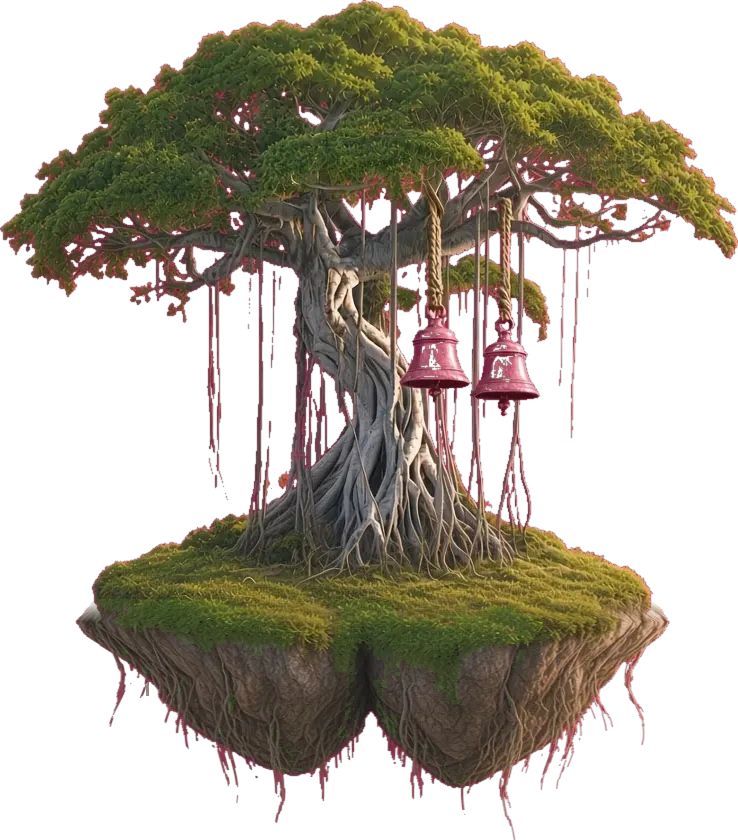
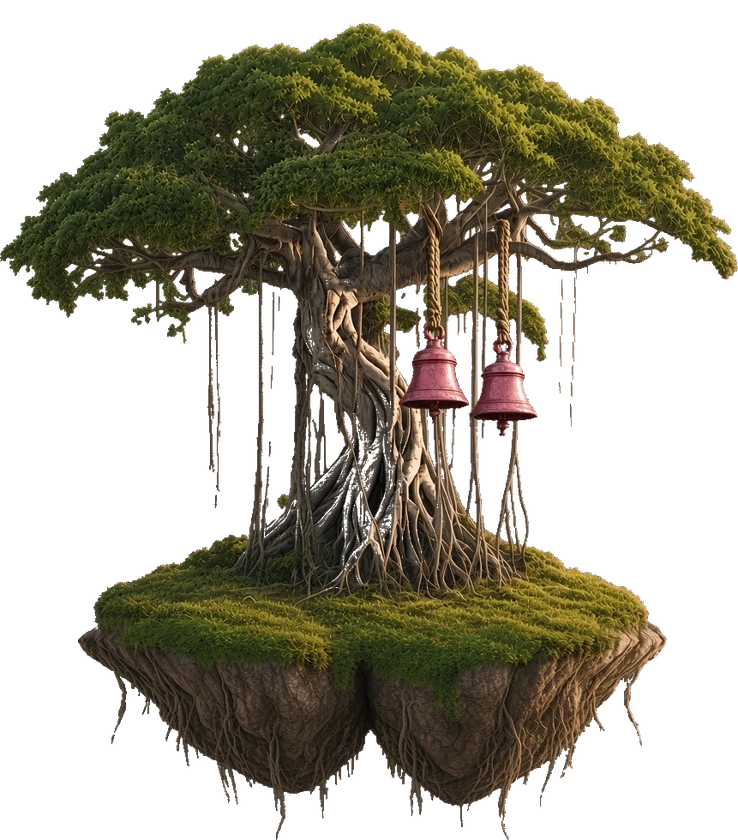
Sharpen the home-trail islands and bridges, and bump the cache.
Foundations uses the new Unit 11-mirror tree with no bell and the letter creatures, not the Unit 2 tree. Unit 10 keeps the wide layered Unit 4-mirror canopy and a pink bell only. Pink fringe and pink vines are cleared from the trail art. Cache is ir-20261128s.

diff --git a/sw.js b/sw.js
@@ -1,7 +1,7 @@
 /* Island Readers sample service worker.
    Code (HTML/JS/CSS/data) is network-first so a new version always wins; the cache is only an offline fallback.
    Media (images/audio/video) is cache-first. Install never fails because of one file. */
-const CACHE = 'ir-20261128r';
+const CACHE = 'ir-20261128s';
 const ASSETS = [
  "./index.html",
  "./js/wordplay.js",
